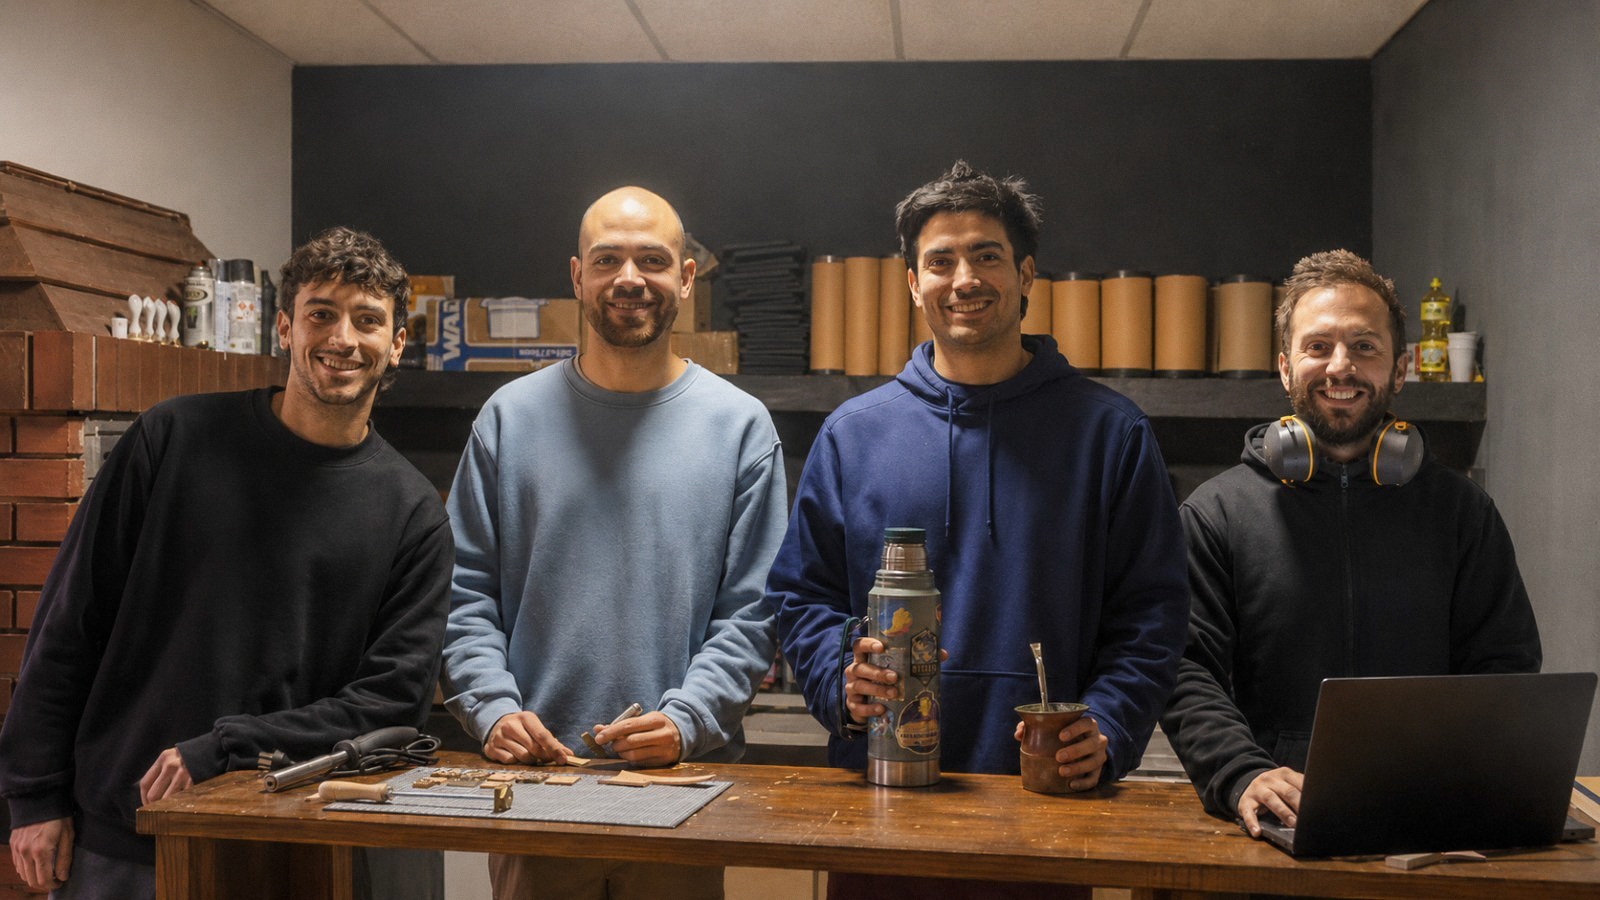
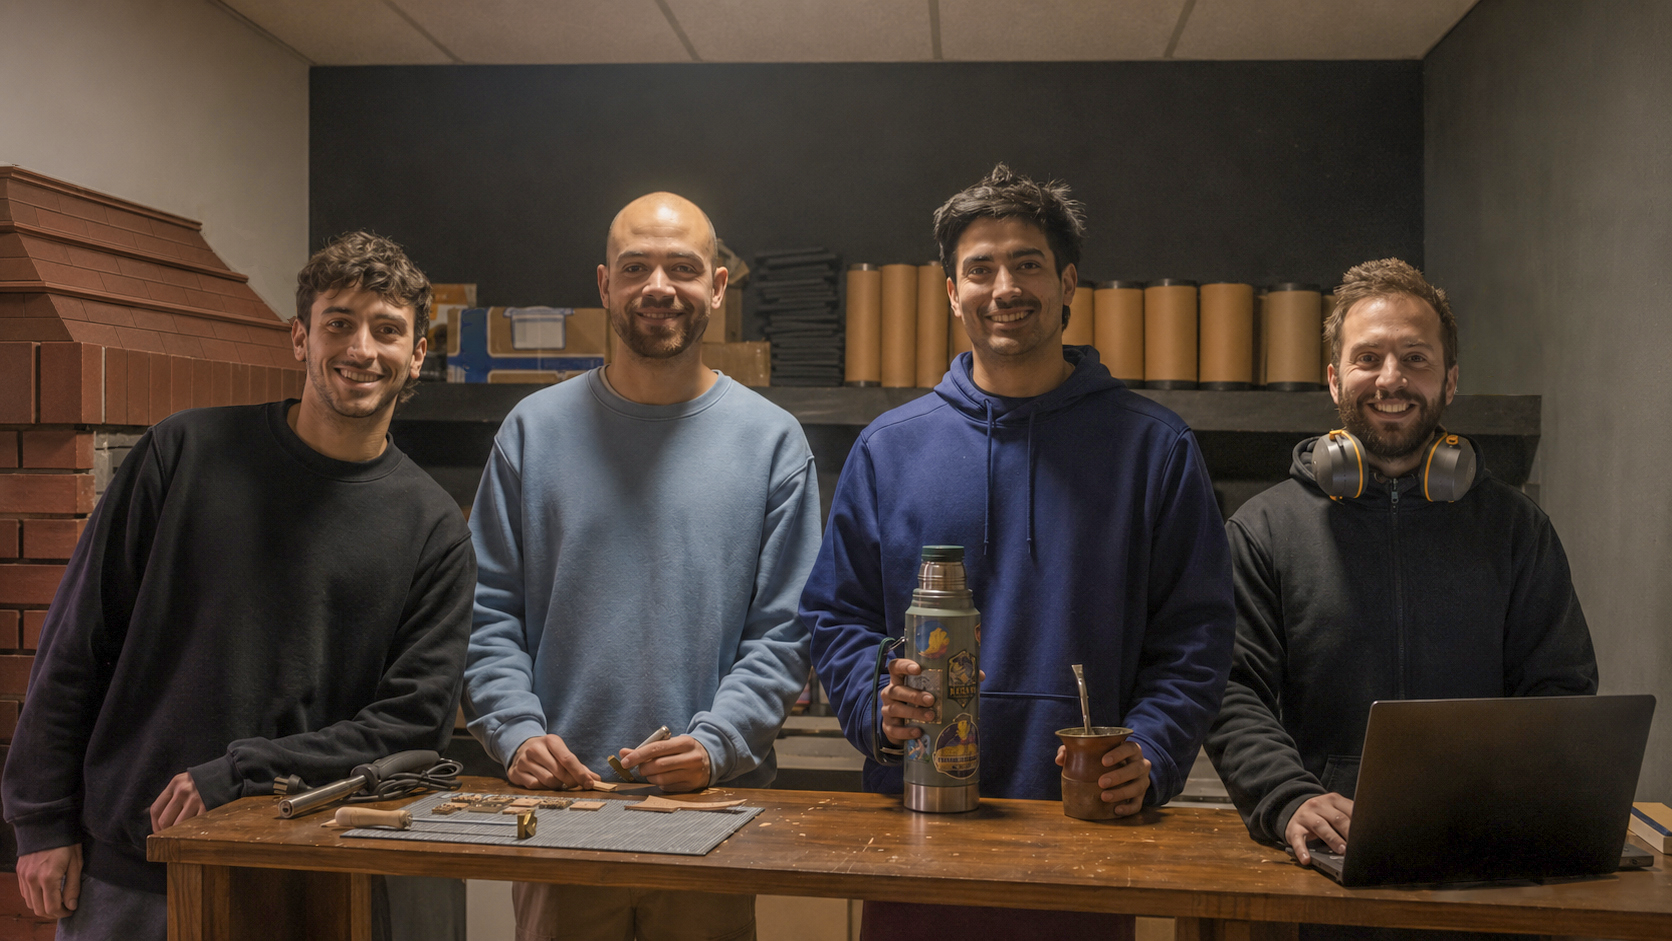
Actualiza imágenes de sobre Alcohn.

diff --git a/src/components/AlcohnValuesSection.tsx b/src/components/AlcohnValuesSection.tsx
@@ -37,7 +37,7 @@ const values = [
   {
     title: 'Cercanía',
     copy: 'Acompañamos a cada cliente con claridad, compromiso y atención personalizada. Sabemos que detrás de cada sello hay una marca, un emprendimiento o un proyecto importante, por eso buscamos que el proceso sea simple, seguro y humano.',
-    image: '/images/nosotros/atencion.png',
+    image: '/images/sobre%20alcohn/cercania.jpeg',
     alt: 'Atención personalizada en el taller Alcohn',
   },
   {
